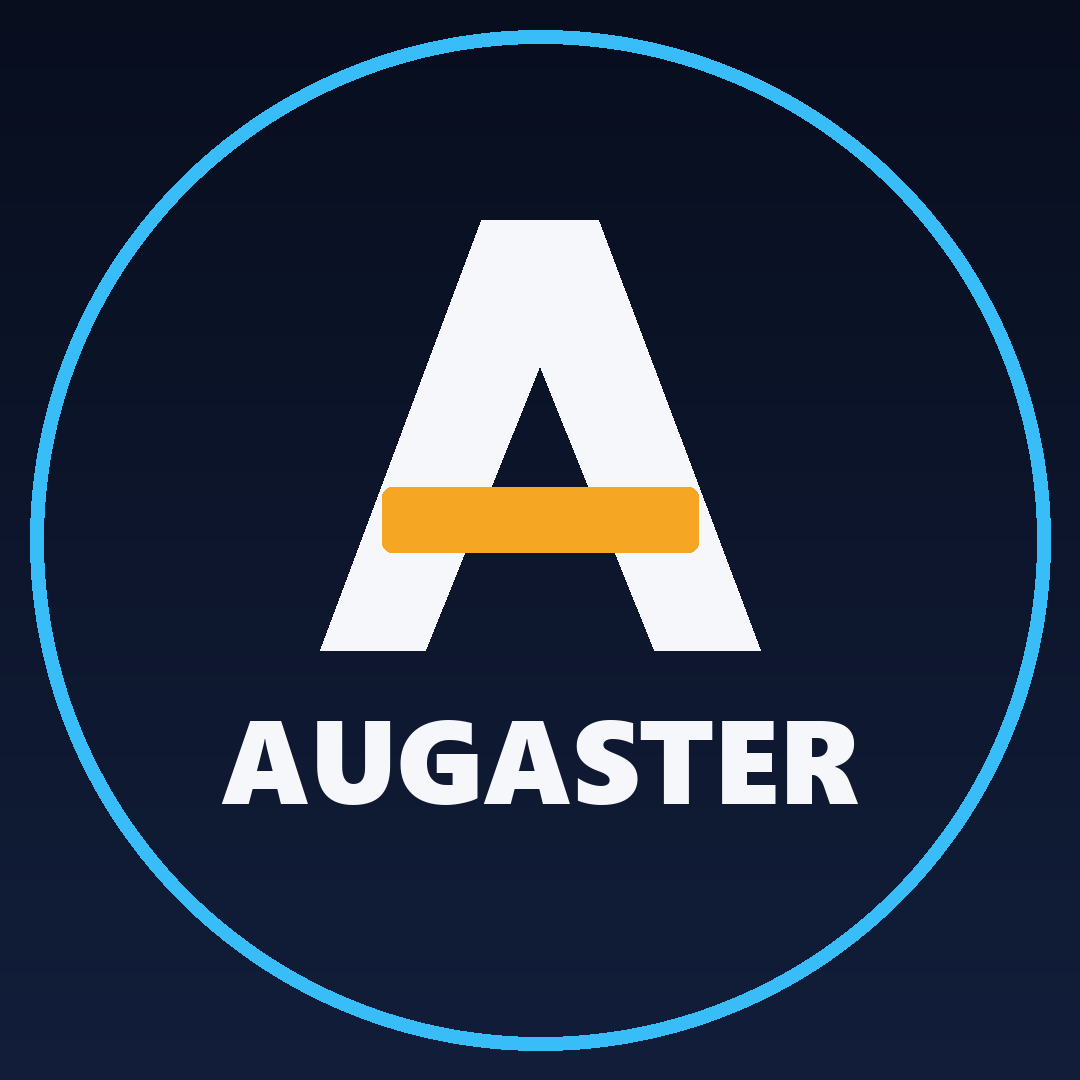
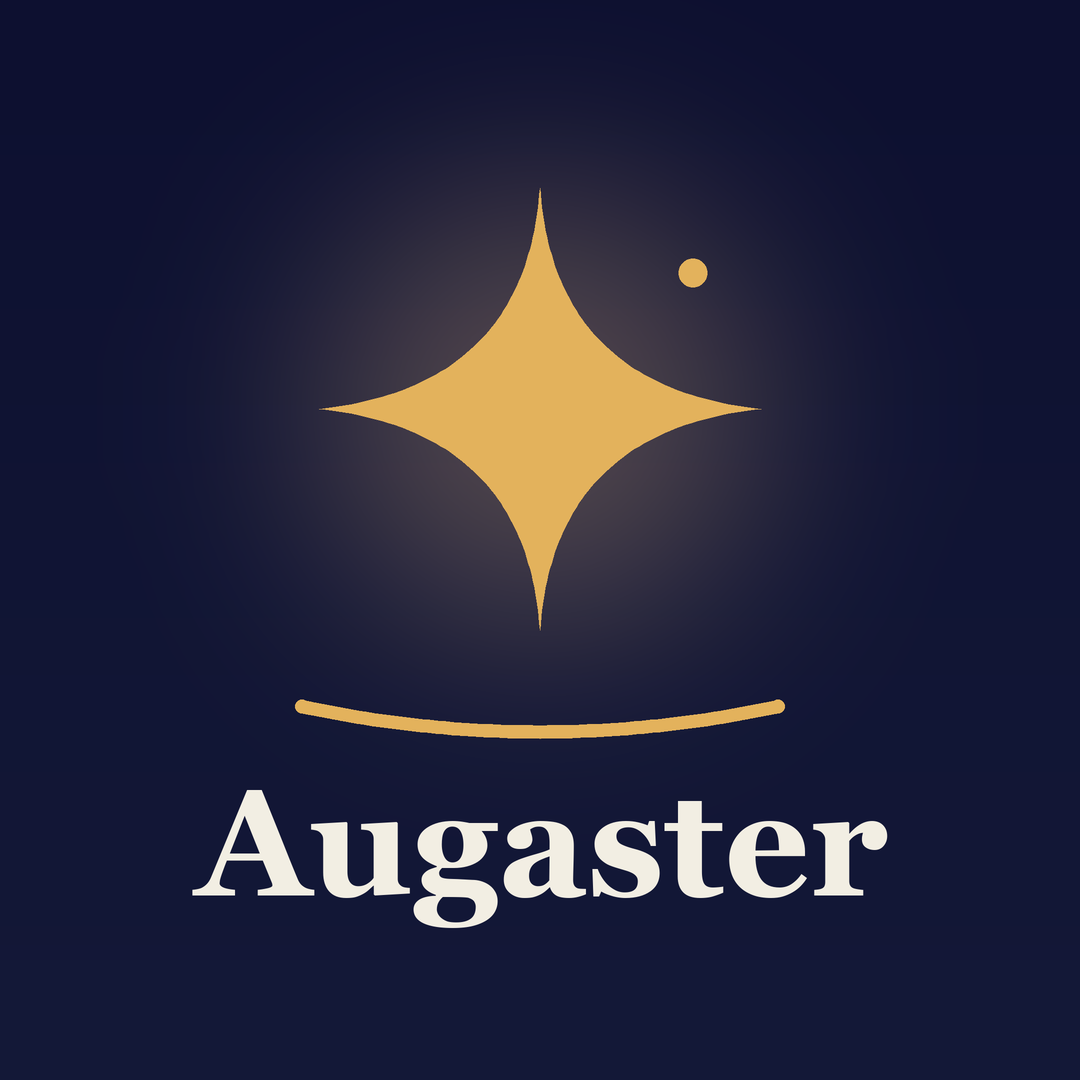
Profile picture: use the existing Augaster dawn-star brand
Redraws augaster-mark.svg (gold star, companion dot, horizon) on the brand-kit
night background with the Augaster wordmark, replacing the ad-hoc A monogram
so Instagram matches LinkedIn and the site. Uploaded to Instagram.

Claude-Session: https://claude.ai/code/session_01Hhr47ayJZ25KU9hk5YP3Ur

diff --git a/make_avatar.py b/make_avatar.py
@@ -1,49 +1,72 @@
 """Render the Augaster profile picture (1080x1080 PNG, circle-crop safe).
 
 Usage: python make_avatar.py [out.png]
-Design: custom "A" whose crossbar is the amber brand bar from the reels, with
-"AUGASTER" underneath, inside a thin sky-blue ring. Uses render_reel.py's palette.
-Also writes <out>_preview.png showing the circle crop at 110 px and 32 px.
+Uses the existing Augaster brand (augaster/augaster-brand-kit.html): the gold
+dawn-star mark from augaster-mark.svg over the night background, with the
+"Augaster" wordmark. Also writes <out>_preview.png (circle crop at 110 and 32 px).
 """
 import os, sys
-from PIL import Image, ImageDraw, ImageFont
+from PIL import Image, ImageChops, ImageDraw, ImageFilter, ImageFont
 
-S = 1080
-BG_TOP, BG_BOT = (8, 14, 30), (18, 30, 58)
-AMBER, SKY, WHITE = (245, 166, 35), (56, 189, 248), (245, 247, 250)
+S, SS = 1080, 2                      # output size, supersampling factor
+NIGHT, NIGHT2 = (13, 16, 48), (20, 25, 56)          # --night, --night-2
+GOLD, STARLIGHT = (227, 178, 92), (242, 238, 227)   # --gold, --starlight
 
+# Brand wordmark is Cormorant Garamond 600; the logo SVG itself falls back to Georgia.
 FONT_CANDIDATES = [
-    "/usr/share/fonts/opentype/inter/Inter-Black.otf",
-    "C:/Windows/Fonts/seguibl.ttf",
-    "/System/Library/Fonts/Supplemental/Arial Black.ttf",
+    "C:/Windows/Fonts/CormorantGaramond-SemiBold.ttf",
+    os.path.expanduser("~/AppData/Local/Microsoft/Windows/Fonts/CormorantGaramond-SemiBold.ttf"),
+    "/usr/share/fonts/truetype/cormorant/CormorantGaramond-SemiBold.ttf",
+    "C:/Windows/Fonts/georgiab.ttf",
+    "/Library/Fonts/Georgia Bold.ttf",
 ]
 
-def heavy_font(size):
+def wordmark_font(size):
     for p in FONT_CANDIDATES:
         if os.path.exists(p):
             return ImageFont.truetype(p, size)
-    raise SystemExit("No heavy font found; install Inter (see setup.sh).")
+    raise SystemExit("No serif font found; install Cormorant Garamond.")
 
-def a_mark(d, cx, top, h, w):
-    """White legs meeting at a flat apex; the crossbar is the amber brand bar."""
-    stroke = w * 0.24
-    apex_l, apex_r = (cx - stroke * 0.55, top), (cx + stroke * 0.55, top)
-    d.polygon([apex_l, apex_r, (cx + w / 2, top + h), (cx + w / 2 - stroke, top + h)], fill=WHITE)
-    d.polygon([apex_l, apex_r, (cx - w / 2 + stroke, top + h), (cx - w / 2, top + h)], fill=WHITE)
-    by = top + h * 0.62
-    d.rounded_rectangle([cx - w * 0.36, by, cx + w * 0.36, by + stroke * 0.62], radius=10, fill=AMBER)
+def quad(p0, p1, p2, n=60):
+    return [((1 - t) ** 2 * p0[0] + 2 * (1 - t) * t * p1[0] + t * t * p2[0],
+             (1 - t) ** 2 * p0[1] + 2 * (1 - t) * t * p1[1] + t * t * p2[1])
+            for t in (i / n for i in range(n + 1))]
+
+# augaster-mark.svg star path, in its 80x80 viewBox.
+STAR = [((40, 8), (41.6, 31.4), (66, 34)), ((66, 34), (41.6, 36.6), (40, 60)),
+        ((40, 60), (38.4, 36.6), (14, 34)), ((14, 34), (38.4, 31.4), (40, 8))]
 
 def render():
-    img = Image.new("RGB", (S, S)); d = ImageDraw.Draw(img)
-    for y in range(S):
-        t = y / S
-        d.line([(0, y), (S, y)], fill=tuple(int(BG_TOP[i] * (1 - t) + BG_BOT[i] * t) for i in range(3)))
-    d.ellipse([30, 30, S - 30, S - 30], outline=SKY, width=14)  # sits just inside Instagram's circle crop
-    a_mark(d, S / 2, 220, 430, 440)
-    font = heavy_font(118)
-    l, t, r, b = d.textbbox((0, 0), "AUGASTER", font=font)
-    d.text(((S - (r - l)) / 2 - l, 720 - t), "AUGASTER", font=font, fill=WHITE)
-    return img
+    W = S * SS
+    img = Image.new("RGB", (W, W)); d = ImageDraw.Draw(img)
+    for y in range(W):
+        t = y / W
+        d.line([(0, y), (W, y)], fill=tuple(int(NIGHT[i] * (1 - t) + NIGHT2[i] * t) for i in range(3)))
+
+    k = 8.5 * SS                     # viewBox unit -> pixels
+    ox, oy = W / 2 - 40 * k, 120 * SS  # place mark centred horizontally
+    P = lambda x, y: (ox + x * k, oy + y * k)
+
+    glow = Image.new("RGB", (W, W)); gd = ImageDraw.Draw(glow)
+    cx, cy = P(40, 34); r = 26 * k
+    gd.ellipse([cx - r, cy - r, cx + r, cy + r], fill=tuple(int(c * 0.30) for c in GOLD))
+    img = ImageChops.add(img, glow.filter(ImageFilter.GaussianBlur(r * 0.45)))
+    d = ImageDraw.Draw(img)
+
+    pts = []
+    for seg in STAR:
+        pts += quad(*[P(*p) for p in seg])
+    d.polygon(pts, fill=GOLD)
+    dx, dy = P(58, 18); dr = 1.7 * k
+    d.ellipse([dx - dr, dy - dr, dx + dr, dy + dr], fill=GOLD)
+    d.line(quad(P(12, 69), P(40, 75), P(68, 69)), fill=GOLD, width=int(1.6 * k), joint="curve")
+    for end in (P(12, 69), P(68, 69)):   # round caps
+        e = 0.8 * k; d.ellipse([end[0] - e, end[1] - e, end[0] + e, end[1] + e], fill=GOLD)
+
+    font = wordmark_font(150 * SS)
+    l, t, r_, b = d.textbbox((0, 0), "Augaster", font=font)
+    d.text(((W - (r_ - l)) / 2 - l, 790 * SS - t), "Augaster", font=font, fill=STARLIGHT)
+    return img.resize((S, S), Image.LANCZOS)
 
 def circle(img, size):
     p = img.resize((size, size), Image.LANCZOS)
